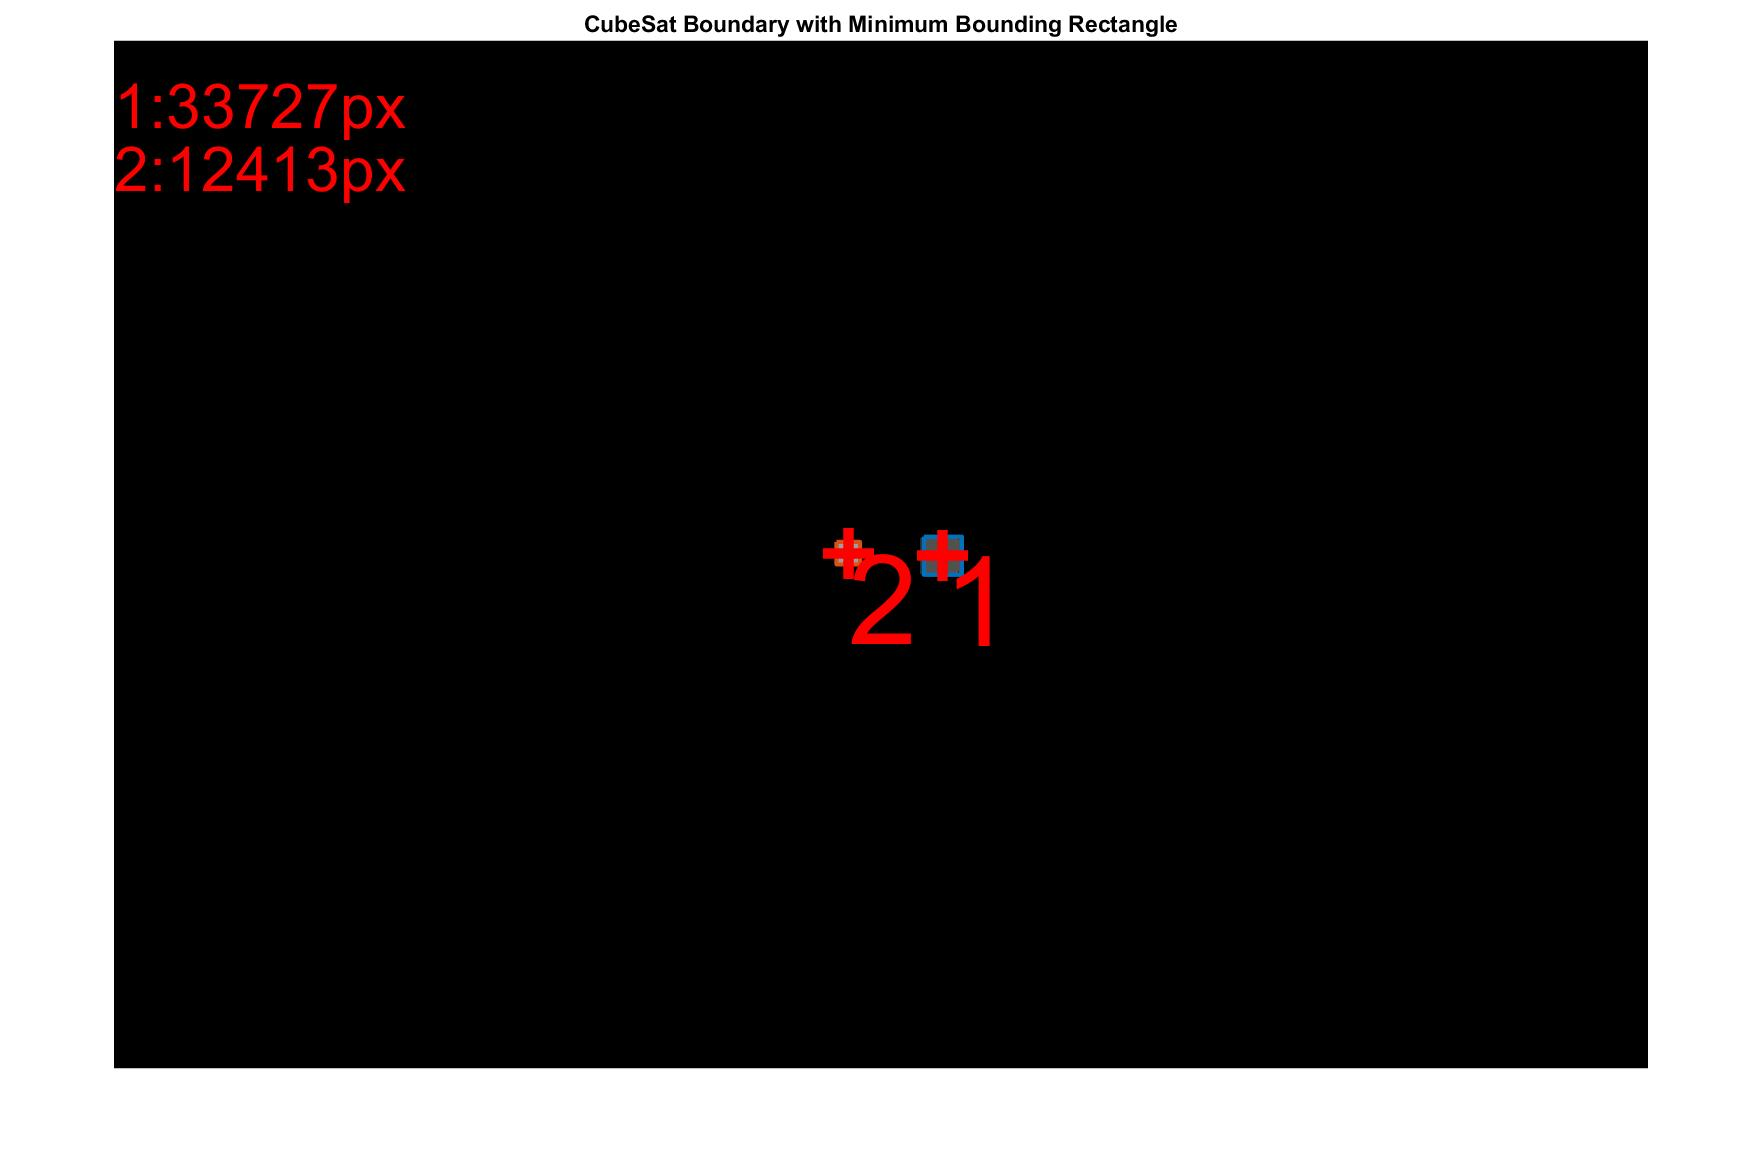
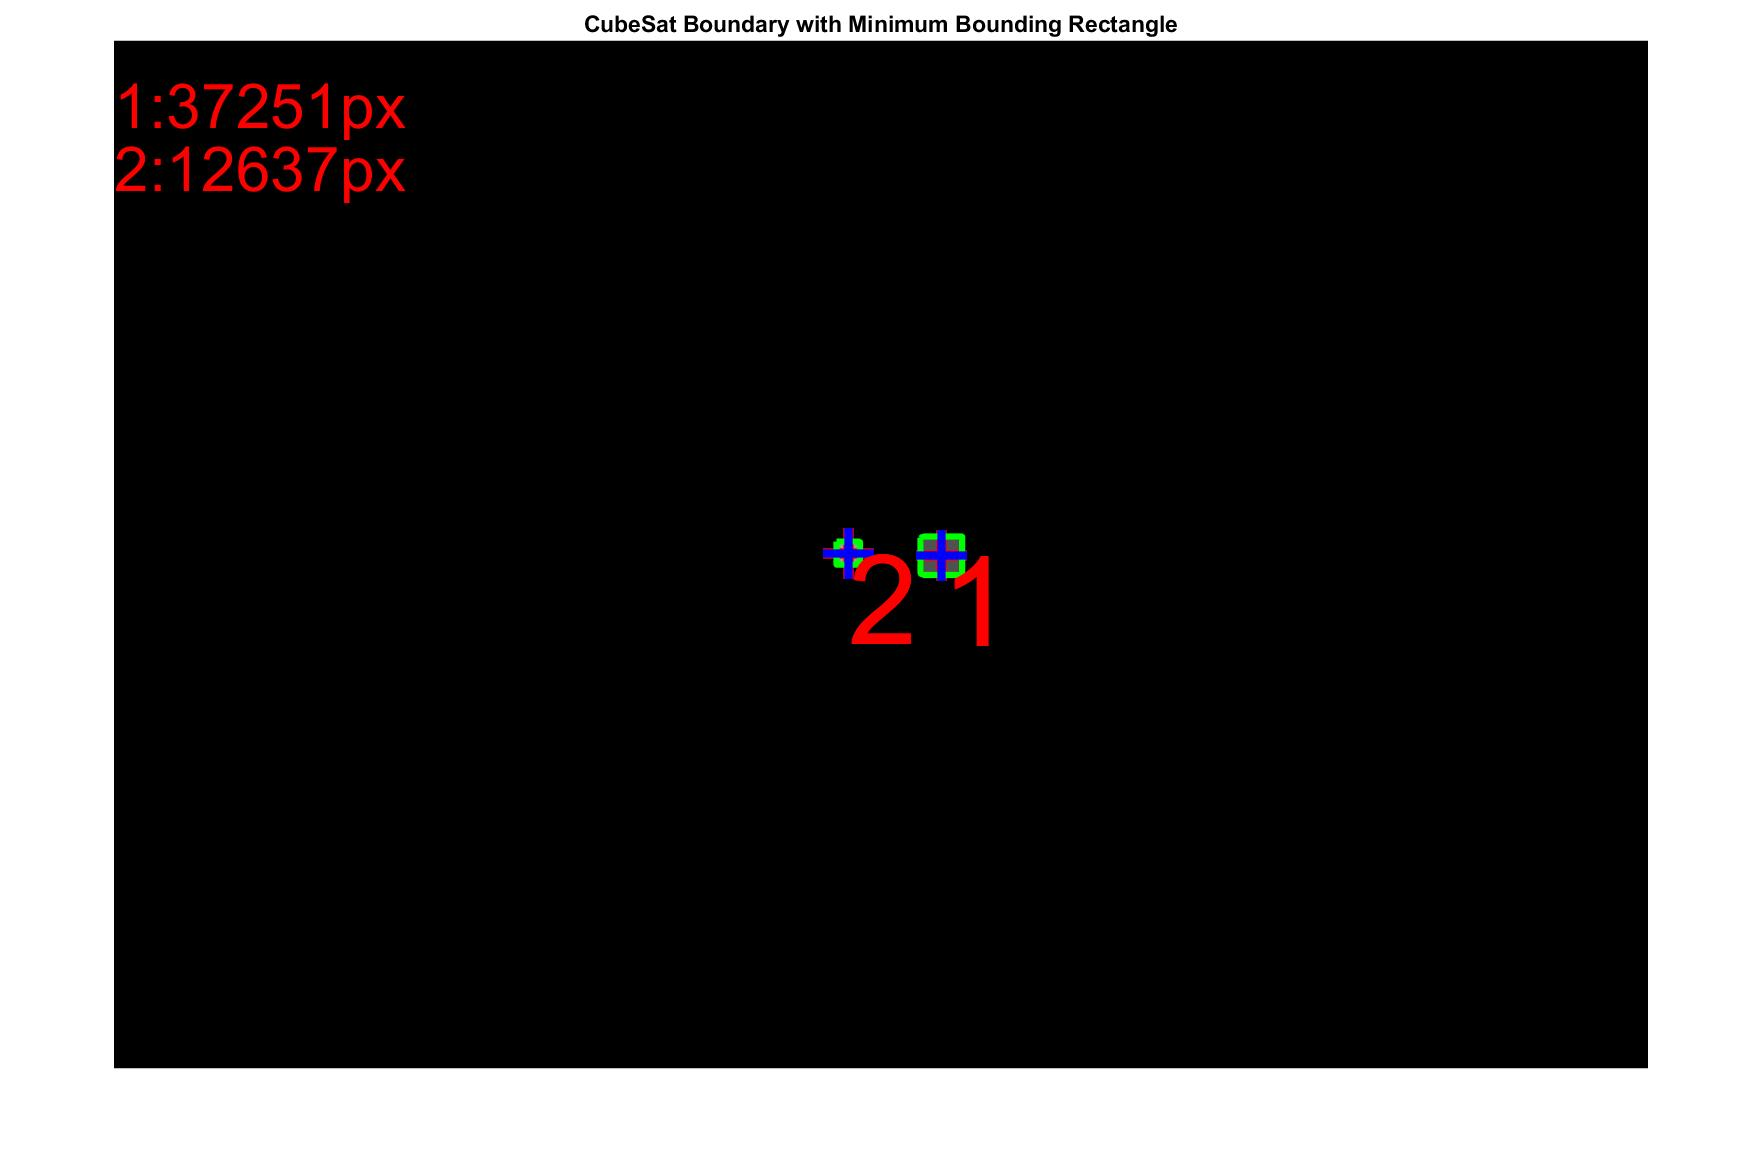
Object detection now valid for all except 3d occlusion

Changed region(s): [[0.0935, 0.0615, 0.1871, 0.1846], [0.4677, 0.4308, 0.5612, 0.5538]]

diff --git a/3-Optical/FindCentroid.m b/3-Optical/FindCentroid.m
@@ -4,11 +4,19 @@ function FindCentroid(imageFiles,plotGrayscale,~,plotBinarized,...
 for i=1:length(imageFiles)
     I = imread(strcat(imageDirectory,imageFiles(i).name));
     %%%%% Remove camera blur from raw image
-    %I = DeblurImage(I);
+    %{
+    imshow(I)
+    title('Blurry')
+    I = DeblurImage(I);
+    figure
+    imshow(I)
+    title('Deblurry boi')
+    %}
     I_gray = rgb2gray(I);
     
-    binaryTolerance = 0.3;
+    binaryTolerance = 0.1;
     I_binarized = imbinarize(I_gray,binaryTolerance);
+    %imshow(I_binarized)
     [I_boundaries,~,~,~] = bwboundaries(I_binarized);
     
     %%%%% Find the largest boundaries (the cubesats)
@@ -22,22 +30,17 @@ for i=1:length(imageFiles)
 
     objects = detectObjects(I_boundaries,s,si);
     
+    edgeImage = createEdgeImage(objects{1},I_gray);
+    
     boundingRectangles = findBoundingRectangles(objects,I_gray);
-    %{
-    if plotGrayscale == 1
-        figure
-        imshow(I_gray,'InitialMagnification',800);
-        hold on
-        sz = 600;
-    end
-    %}
+
     for j=1:length(objects)
-        %objectBoundary = objects{j};
+        objectBoundary = objects{j};
         boundingRectangle = boundingRectangles{j};
         %%%% Plotting grayscale image overlaid with cube outline
         %%%% and geometric centroid overlaid
         if plotGrayscale == 1
-            %plotEdgeCentroid(objectBoundary,j)
+            plotEdgeCentroid(objectBoundary,j)
             plotBoundingCentroid(boundingRectangle,j)
         end
     end

diff --git a/3-Optical/EdgeOutlineDetection.m b/3-Optical/EdgeOutlineDetection.m
@@ -16,7 +16,7 @@ plotBinarized = 0;
 
 %%% Search desired image folder for relevant images
 imageDirectory = 'Images/';
-imageSet = '3*';
+imageSet = 'occ*';
 if strcmp(imageSet,'8*')
     imageType = 'RealImages';
 else
@@ -25,7 +25,7 @@ end
 images = strcat(imageDirectory,imageSet);
 imageFiles = dir(images);
 
-%Preallocate array to store number of pixels for the cubesats in each image
+%Preallocate array to store number of pixels for the cubesat+s in each image
 tic
 number_of_pixels = zeros(length(imageFiles),1);
 FindCentroid(imageFiles,plotGrayscale,number_of_pixels,plotBinarized,...

diff --git a/3-Optical/plotBoundingCentroid.m b/3-Optical/plotBoundingCentroid.m
@@ -1,8 +1,7 @@
 function plotBoundingCentroid(b,j)
     str = num2str(j);
     sz = 600;
-    scatter(mean(b(1:end-1,1)),mean(b(1:end-1,2)),sz,'r','+','LineWidth',5);
+    scatter(mean(b(1:end-1,1)),mean(b(1:end-1,2)),sz,'b','+','LineWidth',4);
     text(mean(b(1:end-1,1)),mean(b(1:end-1,2))+200,str,'Color','red',...
         'FontSize',60);
-    %plot(b(:,1),b(:,2),'g','LineWidth',3);
 end

diff --git a/3-Optical/minboundrect.m b/3-Optical/minboundrect.m
@@ -1,4 +1,4 @@
-function [rectx,recty,area,perimeter] = minboundrect(x,y,metric,I_gray)
+function [rectx,recty,area,perimeter] = minboundrect(x,y,metric,~)
 % minboundrect: Compute the minimal bounding rectangle of points in the plane
 % usage: [rectx,recty,area,perimeter] = minboundrect(x,y,metric)
 %

diff --git a/3-Optical/DeblurImage.m b/3-Optical/DeblurImage.m
@@ -1,6 +1,6 @@
 function I_deblurred = DeblurImage(I)
-    radius = 1;
-    PSF = fspecial('disk',radius);
-    I_deblurred = deconvwnr(I,PSF,0.05);
+    PSF = fspecial('gaussian',50,2);
+    INITPSF = ones(size(PSF));
+    I_deblurred = deconvblind(I,INITPSF,5);
     return
 end

diff --git a/3-Optical/createEdgeImage.m b/3-Optical/createEdgeImage.m
@@ -1,0 +1,10 @@
+function edgeImage = createEdgeImage(pixels,I)
+edgeImage = zeros(size(I));
+for i = 1:length(pixels(:,1))
+    edgeImage(pixels(i,1),pixels(i,2)) = 1;
+end
+C = corner(edgeImage);
+imshow(edgeImage)
+hold on
+plot(C(:,1),C(:,2),'r*');
+end

diff --git a/3-Optical/findBoundingRectangles.m b/3-Optical/findBoundingRectangles.m
@@ -10,5 +10,4 @@ for i = 1:length(boundaryPixels)
     boundingRectangles{i} = [rectx,recty];
 end
 title('CubeSat Boundary with Minimum Bounding Rectangle')
-%saveas(gcf,['BoundingImageOutputs/RealImage','BoundingRectangle',num2str(i),'.jpg'])
 end

diff --git a/3-Optical/detectObjects.m b/3-Optical/detectObjects.m
@@ -1,6 +1,6 @@
 function detectedObjects = detectObjects(I_boundaries,s,~)
 maxBoundary = max(s);
-pixelThreshold = 0.1*maxBoundary;
+pixelThreshold = 0.2*maxBoundary;
 j = 1;
 for i=1:length(s)
     if s(i) > pixelThreshold
